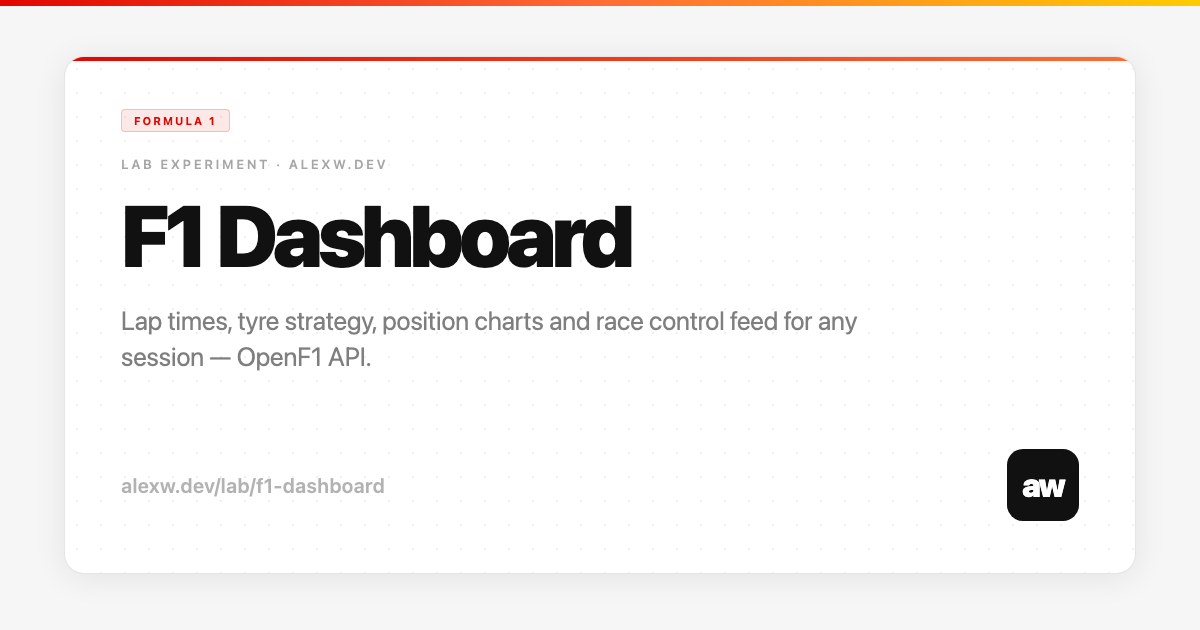
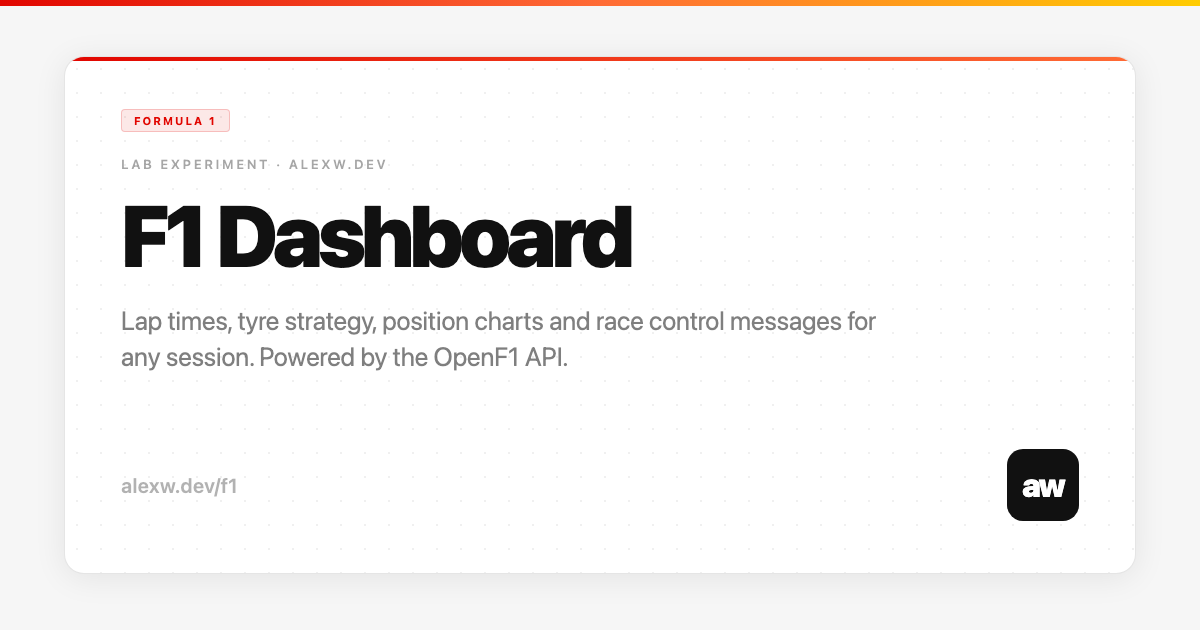
fix: lab url updates

Changed region(s): [[0.0925, 0.5429, 0.4625, 0.6032], [0.6167, 0.4825, 0.74, 0.5429], [0.185, 0.754, 0.3392, 0.7841]]

diff --git a/src/labs/TTRDashboard.tsx b/src/labs/TTRDashboard.tsx
@@ -223,7 +223,7 @@ function TeamDetailPanel({ profile, onViewProfile }: { profile: TeamProfile; onV
         )}
         <button
           onClick={onViewProfile}
-          className="ml-auto font-mono text-[11px] font-bold uppercase tracking-widest px-4 py-2 rounded-sm transition-opacity hover:opacity-85 active:opacity-70 shrink-0"
+          className="ml-auto cursor-pointer font-mono text-[11px] font-bold uppercase tracking-widest px-4 py-2 rounded-sm transition-opacity hover:opacity-85 active:opacity-70 shrink-0"
           style={{ background: RED, color: '#fff' }}
         >
           Full profile →
@@ -319,7 +319,7 @@ function SeasonAccordion({ label, played, w, l, d }: {
     <div>
       <button
         onClick={() => setOpen(o => !o)}
-        className="w-full flex items-center gap-4 px-4 py-3 text-left transition-colors hover:bg-black/2"
+        className="w-full flex cursor-pointer items-center gap-4 px-4 py-3 text-left transition-colors hover:bg-black/2"
         style={{ borderBottom: `1px solid ${BORDER}` }}
       >
         <span className="font-mono text-[10px] uppercase tracking-[0.2em] text-black/40 flex-1">
@@ -421,7 +421,7 @@ function TeamProfilePage({ profile, onBack }: { profile: TeamProfile; onBack: ()
       <div className="flex items-center gap-3 px-4 py-4" style={{ borderBottom: `1px solid ${BORDER}` }}>
         <button
           onClick={onBack}
-          className="flex items-center gap-1.5 font-mono text-[11px] uppercase tracking-widest transition-colors hover:text-black"
+          className="flex cursor-pointer items-center gap-1.5 font-mono text-[11px] uppercase tracking-widest transition-colors hover:text-black"
           style={{ color: 'rgba(0,0,0,0.40)' }}
         >
           ← Back to standings
@@ -617,7 +617,7 @@ function StandingsTable({
             return (
               <Fragment key={s.team}>
                 <tr
-                  className="transition-colors cursor-pointer hover:bg-black/2"
+                  className={`transition-colors hover:bg-black/2 ${s.teamId !== null ? 'cursor-pointer' : 'cursor-default'}`}
                   onClick={() => s.teamId !== null && onSelectTeam(isSelected ? null : s.teamId)}
                   style={{
                     borderBottom: isSelected ? 'none' : `1px solid ${BORDER2}`,
@@ -901,7 +901,7 @@ function LeaguePanel({ league }: { league: LeagueConfig }) {
           <button
             key={t}
             onClick={() => setTab(t)}
-            className="relative px-5 py-3.5 text-xs font-semibold capitalize transition-colors"
+            className="relative cursor-pointer px-5 py-3.5 text-xs font-semibold capitalize transition-colors"
             style={{ color: tab === t ? '#000' : 'rgba(0,0,0,0.40)' }}>
             {t}
             {tab === t && (
@@ -1030,7 +1030,7 @@ export default function TTRDashboard(): React.ReactElement {
               <button
                 key={v.id}
                 onClick={() => { setVenue(v.id); setDivision('cup'); }}
-                className="relative whitespace-nowrap px-4 py-4 text-xs font-semibold transition-colors"
+                className="relative cursor-pointer whitespace-nowrap px-4 py-4 text-xs font-semibold transition-colors"
                 style={{ color: venue === v.id ? '#000' : 'rgba(0,0,0,0.35)' }}
               >
                 {v.label}
@@ -1055,7 +1055,7 @@ export default function TTRDashboard(): React.ReactElement {
               <button
                 key={d}
                 onClick={() => setDivision(d)}
-                className="flex items-center gap-1.5 px-5 py-1.5 font-mono text-[11px] font-bold uppercase tracking-widest transition-colors"
+                className="flex cursor-pointer items-center gap-1.5 px-5 py-1.5 font-mono text-[11px] font-bold uppercase tracking-widest transition-colors"
                 style={
                   division === d
                     ? { background: RED, color: '#fff' }

diff --git a/src/pages/Lab.tsx b/src/pages/Lab.tsx
@@ -39,11 +39,18 @@ function Lab() {
             {labs.map((experiment) => (
               <Link
                 key={experiment.slug}
-                to={`/lab/${experiment.slug}`}
-                className="group relative flex flex-col rounded-2xl border border-border bg-bg-card p-5 transition-colors hover:border-cyan/40 hover:bg-bg-card/80"
+                to={experiment.path}
+                style={{ '--accent': experiment.color } as React.CSSProperties}
+                className="group relative flex flex-col rounded-2xl border border-border bg-bg-card p-5 transition-colors hover:border-(--accent) hover:bg-bg-card/80"
               >
+                <span
+                  className="pointer-events-none absolute bottom-4 right-4 select-none text-5xl opacity-5 transition-opacity group-hover:opacity-15"
+                  aria-hidden="true"
+                >
+                  {experiment.icon}
+                </span>
                 <div className="flex items-start justify-between">
-                  <h2 className="text-lg font-semibold transition-colors group-hover:text-cyan">
+                  <h2 className="text-lg font-semibold transition-colors group-hover:text-(--accent)">
                     {experiment.title}
                   </h2>
                   <StatusBadge status={experiment.status} />

diff --git a/src/pages/LabExperiment.tsx b/src/pages/LabExperiment.tsx
@@ -12,10 +12,18 @@ const experimentComponents: Record<string, React.LazyExoticComponent<() => React
   'ttr-dashboard': lazy(() => import('../labs/TTRDashboard.tsx')),
 };
 
-export default function LabExperiment() {
-  const { slug } = useParams<{ slug: string }>();
+export default function LabExperiment({ slugOverride }: { slugOverride?: string } = {}) {
+  const params = useParams<{ slug: string }>();
+  const slug = slugOverride ?? params.slug;
   const meta = labs.find((l) => l.slug === slug);
   const ExperimentComponent = slug ? experimentComponents[slug] : undefined;
+
+  useEffect(() => {
+    if (!meta) return;
+    const prev = document.title;
+    document.title = `${meta.title} | alexw.dev`;
+    return () => { document.title = prev; };
+  }, [meta]);
 
   if (!meta || !ExperimentComponent) {
     return (
@@ -29,12 +37,6 @@ export default function LabExperiment() {
   }
 
   const isCanvas = (meta.layout ?? 'canvas') === 'canvas';
-
-  useEffect(() => {
-    const prev = document.title;
-    document.title = `${meta.title} | alexw.dev`;
-    return () => { document.title = prev; };
-  }, [meta.title]);
 
   return (
     <div className={`relative w-full overflow-x-hidden bg-black ${isCanvas ? 'h-screen overflow-hidden' : 'min-h-screen'}`}>

diff --git a/src/data/labs.ts b/src/data/labs.ts
@@ -1,27 +1,36 @@
 export interface LabExperiment {
   slug: string;
+  path: string;
   title: string;
   description: string;
   tags: string[];
   status: 'live' | 'wip' | 'idea';
   layout?: 'canvas' | 'page';
+  color: string;
+  icon: string;
 }
 
 export const labs: LabExperiment[] = [
   {
     slug: 'f1-dashboard',
+    path: '/f1',
     title: 'F1 Dashboard',
-    description: 'Lap times, tyre strategy, position charts and race control feed for any session — powered by the OpenF1 API.',
+    description: 'Lap times, tyre strategy, position charts and race control feed for any session, powered by the OpenF1 API.',
     tags: ['f1', 'data', 'openf1', 'recharts'],
     status: 'live',
     layout: 'page',
+    color: '#f97316',
+    icon: '🏎',
   },
   {
     slug: 'ttr-dashboard',
+    path: '/ttr',
     title: 'TTR Newcastle',
-    description: 'Live standings and fixtures for Try Tag Rugby Newcastle leagues — The Parks and RGS Wednesday & Thursday.',
+    description: 'Live standings and fixtures for Try Tag Rugby Newcastle leagues, running Monday, Wednesday and Thursday.',
     tags: ['tag rugby', 'data', 'local', 'sports'],
     status: 'live',
     layout: 'page',
+    color: '#d01c1c',
+    icon: '🏉',
   },
 ];

diff --git a/src/App.tsx b/src/App.tsx
@@ -135,6 +135,8 @@ function AppRoutes() {
         <Route path="/blog" element={<Blog />} />
         <Route path="/blog/:slug" element={<BlogPost />} />
         <Route path="/lab" element={<Lab />} />
+        <Route path="/ttr" element={<LabExperiment slugOverride="ttr-dashboard" />} />
+        <Route path="/f1" element={<LabExperiment slugOverride="f1-dashboard" />} />
         <Route path="/lab/:slug" element={<LabExperiment />} />
         <Route path="*" element={<NotFound />} />
       </Routes>
